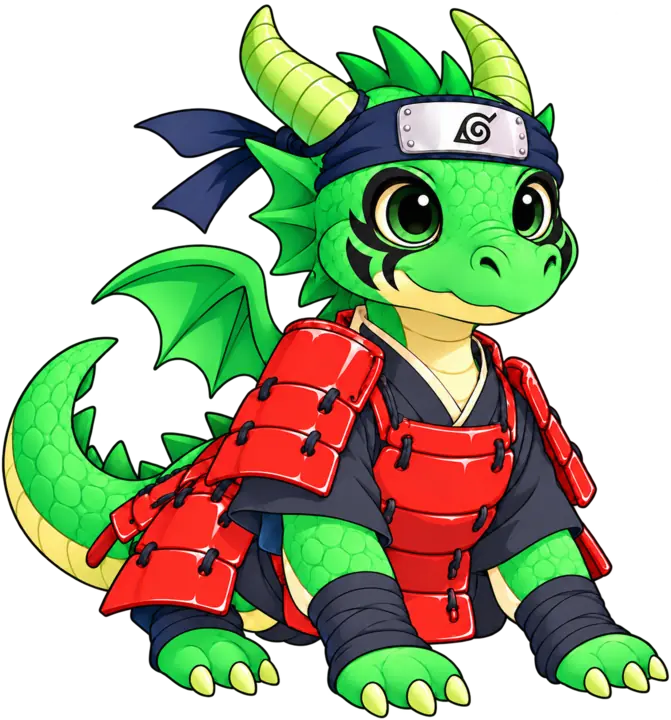
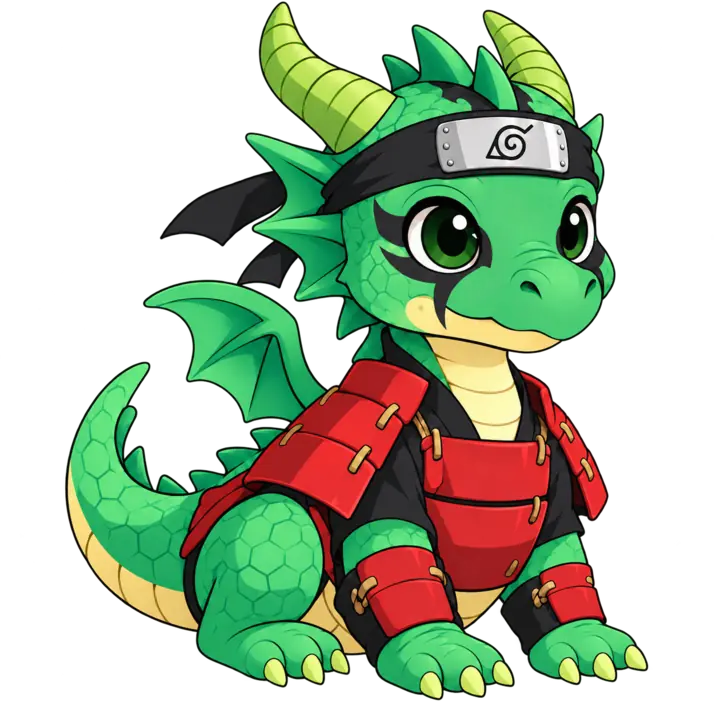
Use creator's nature dragon artwork for hatching and collection

diff --git a/eggs.js b/eggs.js
@@ -10,7 +10,7 @@ function formatTime(ms){const t=Math.max(0,Math.ceil(ms/1000));return `${Math.fl
 function getDragon(id){return typeof dragons!=="undefined"?dragons.find(d=>d.id===id)||null:null}
 function injectStyles(){if(document.getElementById("draconia-eggs-style"))return;const s=document.createElement("style");s.id="draconia-eggs-style";s.textContent=`.dragon-egg-panel{margin:14px 0;padding:14px;border-radius:18px;background:linear-gradient(145deg,rgba(250,204,21,.11),rgba(168,85,247,.09));border:1px solid rgba(168,85,247,.18);text-align:center}.dragon-egg-panel.empty{opacity:.76}.dragon-egg-big{font-size:54px;line-height:1;margin-bottom:8px}.dragon-egg-big .dragon-art{width:min(100%,210px);height:180px;object-fit:contain;margin:auto}.dragon-egg-panel h3{margin:4px 0 6px}.dragon-egg-panel p{margin:4px 0;font-size:12px;line-height:1.45}.dragon-egg-progress{height:10px;margin:10px 0;border-radius:999px;background:rgba(0,0,0,.09);overflow:hidden}.dragon-egg-fill{height:100%;border-radius:999px;background:linear-gradient(90deg,#a855f7,#f59e0b);transition:width .8s linear}.dragon-egg-hatch{margin-top:10px;border:0;border-radius:12px;padding:10px 14px;background:#7c3aed;color:white;font-weight:900}.dragon-egg-hatch:disabled{opacity:.45}.dragon-egg-ready{font-weight:900;color:#7c3aed}`;document.head.appendChild(s)}
 function ensurePanel(){const card=document.querySelector(".egg-card");if(!card)return null;let p=document.getElementById("dragon-egg-panel");if(!p){p=document.createElement("div");p.id="dragon-egg-panel";p.className="dragon-egg-panel";const b=document.getElementById("egg-button");if(b)b.insertAdjacentElement("afterend",p);else card.appendChild(p)}return p}
-function render(){injectStyles();const p=ensurePanel();if(!p)return;const egg=loadEgg(),b=document.getElementById("egg-button");if(!egg){p.className="dragon-egg-panel empty";p.innerHTML=`<div class="dragon-egg-big">🥚</div><h3>Aucun œuf en incubation</h3><p>Explore une zone pour tenter de trouver un œuf de dragon.</p>`;if(b)b.disabled=false;return}const d=getDragon(egg.dragonId);if(!d){saveEgg(null);render();return}const rem=Math.max(0,egg.hatchAt-Date.now()),dur=Math.max(1,egg.hatchAt-egg.startedAt),pc=Math.min(100,Math.round((dur-rem)/dur*100)),ready=rem<=0;const stage=ready?"hatching":rem<=dur/2?"cracked":"egg";p.className="dragon-egg-panel";p.innerHTML=`<div class="dragon-egg-big">${d.id==="dragon-feu"?dragonArtwork(d,stage):ready?"✨🥚✨":"🥚"}</div><h3>Œuf ${d.element}</h3><p>${d.rarity} • Trouvé dans ${egg.zoneName||"Draconia"}</p><div class="dragon-egg-progress"><div class="dragon-egg-fill" style="width:${pc}%"></div></div><p class="${ready?"dragon-egg-ready":""}">${ready?"✨ L'œuf est prêt à éclore !":`⏳ Éclosion dans ${formatTime(rem)}`}</p><button class="dragon-egg-hatch" id="dragon-egg-hatch-button" ${ready?"":"disabled"}>🐣 Faire éclore</button>`;if(b)b.disabled=true;const hb=document.getElementById("dragon-egg-hatch-button");if(hb)hb.onclick=hatchEgg}
+function render(){injectStyles();const p=ensurePanel();if(!p)return;const egg=loadEgg(),b=document.getElementById("egg-button");if(!egg){p.className="dragon-egg-panel empty";p.innerHTML=`<div class="dragon-egg-big">🥚</div><h3>Aucun œuf en incubation</h3><p>Explore une zone pour tenter de trouver un œuf de dragon.</p>`;if(b)b.disabled=false;return}const d=getDragon(egg.dragonId);if(!d){saveEgg(null);render();return}const rem=Math.max(0,egg.hatchAt-Date.now()),dur=Math.max(1,egg.hatchAt-egg.startedAt),pc=Math.min(100,Math.round((dur-rem)/dur*100)),ready=rem<=0;const stage=ready?"hatching":rem<=dur/2?"cracked":"egg";p.className="dragon-egg-panel";p.innerHTML=`<div class="dragon-egg-big">${dragonArtworks[d.id]?dragonArtwork(d,stage):ready?"✨🥚✨":"🥚"}</div><h3>Œuf ${d.element}</h3><p>${d.rarity} • Trouvé dans ${egg.zoneName||"Draconia"}</p><div class="dragon-egg-progress"><div class="dragon-egg-fill" style="width:${pc}%"></div></div><p class="${ready?"dragon-egg-ready":""}">${ready?"✨ L'œuf est prêt à éclore !":`⏳ Éclosion dans ${formatTime(rem)}`}</p><button class="dragon-egg-hatch" id="dragon-egg-hatch-button" ${ready?"":"disabled"}>🐣 Faire éclore</button>`;if(b)b.disabled=true;const hb=document.getElementById("dragon-egg-hatch-button");if(hb)hb.onclick=hatchEgg}
 function receiveEgg(d,zone){if(!d||loadEgg())return false;const perks=typeof window.draconiaPlayerPerks==="function"?window.draconiaPlayerPerks():{hatchMultiplier:1};const duration=Math.round((hatchTimes[d.rarity]||60000)*(perks.hatchMultiplier||1)),startedAt=Date.now();saveEgg({dragonId:d.id,zoneName:zone||"Draconia",startedAt,hatchAt:startedAt+duration});render();return true}
 function hatchEgg(){const egg=loadEgg();if(!egg||Date.now()<egg.hatchAt)return;const d=getDragon(egg.dragonId);if(!d){saveEgg(null);render();return}saveEgg(null);if(typeof discoverDragon==="function")discoverDragon(d);render();const m=document.getElementById("egg-message");if(m)m.textContent=`🐣 ${d.name} vient d'éclore ! Il rejoint maintenant tes dragons.`}
 function start(){render();if(timer)clearInterval(timer);timer=setInterval(render,1000)}

diff --git a/dragonart.js b/dragonart.js
@@ -1,19 +1,30 @@
-// Illustrations du dragon de feu. Les autres dragons gardent leur icône actuelle.
+// Illustrations par dragon. Les dragons sans visuel gardent leur icône actuelle.
 const flamioArtwork = Object.freeze({
     egg: "assets/flamio-egg.webp",
     cracked: "assets/flamio-egg-cracked.webp",
     hatching: "assets/flamio-hatching.webp",
     dragon: "assets/flamio.webp"
 });
+const natureArtwork = Object.freeze({
+    egg: "assets/nature-egg.webp",
+    cracked: "assets/nature-egg-cracked.webp",
+    hatching: "assets/nature-hatching.webp",
+    dragon: "assets/dragon-nature-senju-v2.webp"
+});
+
+const dragonArtworks = Object.freeze({
+    "dragon-feu": flamioArtwork,
+    "dragon-nature": natureArtwork
+});
 
 function dragonArtwork(dragon, stage = "dragon") {
-    if (!dragon || dragon.id !== "dragon-feu") return dragon ? dragon.icon : "🥚";
+    const artwork = dragon && dragonArtworks[dragon.id];
+    if (!artwork) return dragon ? dragon.icon : "🥚";
     const labels = {
-        egg: "Œuf de feu",
-        cracked: "Œuf de feu fissuré",
-        hatching: "Flamio sort de son œuf",
-        dragon: "Flamio, dragon de feu"
+        egg: `Œuf de ${dragon.element}`,
+        cracked: `Œuf de ${dragon.element} fissuré`,
+        hatching: `${dragon.name} sort de son œuf`,
+        dragon: `${dragon.name}, dragon de ${dragon.element}`
     };
-    const src = flamioArtwork[stage] || flamioArtwork.dragon;
-    return `<img class="dragon-art dragon-art-${stage}" src="${src}" alt="${labels[stage] || labels.dragon}" draggable="false">`;
+    return `<img class="dragon-art dragon-art-${stage}" src="${artwork[stage] || artwork.dragon}" alt="${labels[stage] || labels.dragon}" draggable="false">`;
 }

diff --git a/index.html b/index.html
@@ -1531,7 +1531,7 @@
 <script src="config.js?v=1"></script>
 <script src="storage.js?v=1"></script>
 <script src="core.js?v=2"></script>
-<script src="dragonart.js?v=1"></script>
+<script src="dragonart.js?v=2"></script>
 <script src="gathering.js?v=3"></script>
 <script src="forest.js?v=2"></script>
 <script src="plains.js?v=1"></script>
@@ -1551,7 +1551,7 @@
 <script src="dailyrewards.js?v=2"></script>
 <script src="dragonpersonality.js?v=1"></script>
 <script src="adventurelog.js?v=2"></script>
-<script src="eggs.js?v=4"></script>
+<script src="eggs.js?v=5"></script>
 <script src="exploration.js?v=4"></script>
 <script src="dragoncare.js?v=2"></script>
 <script src="dragonrest.js?v=1"></script>
